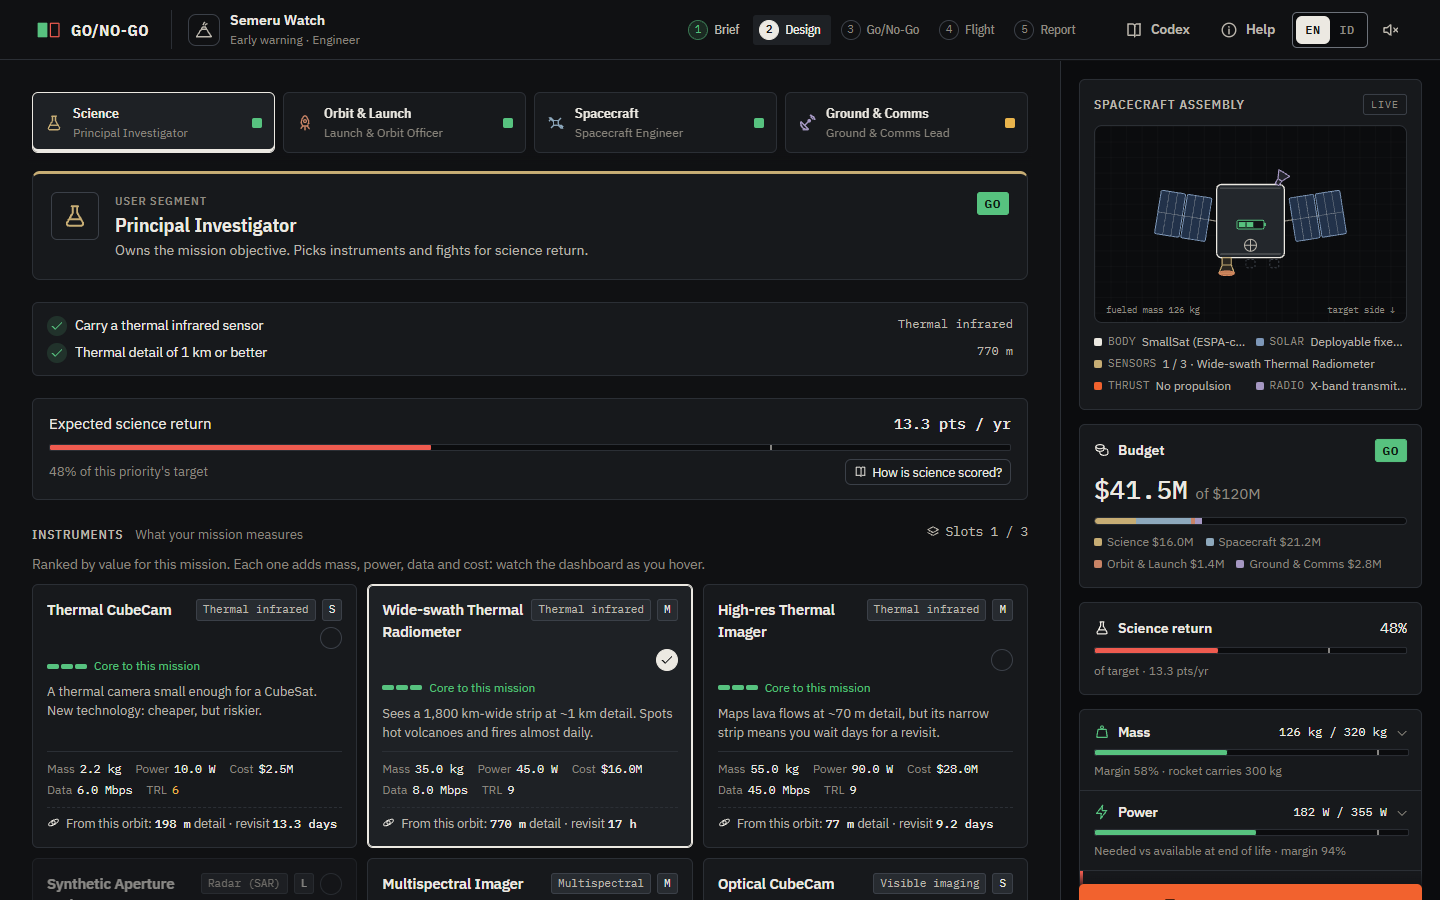
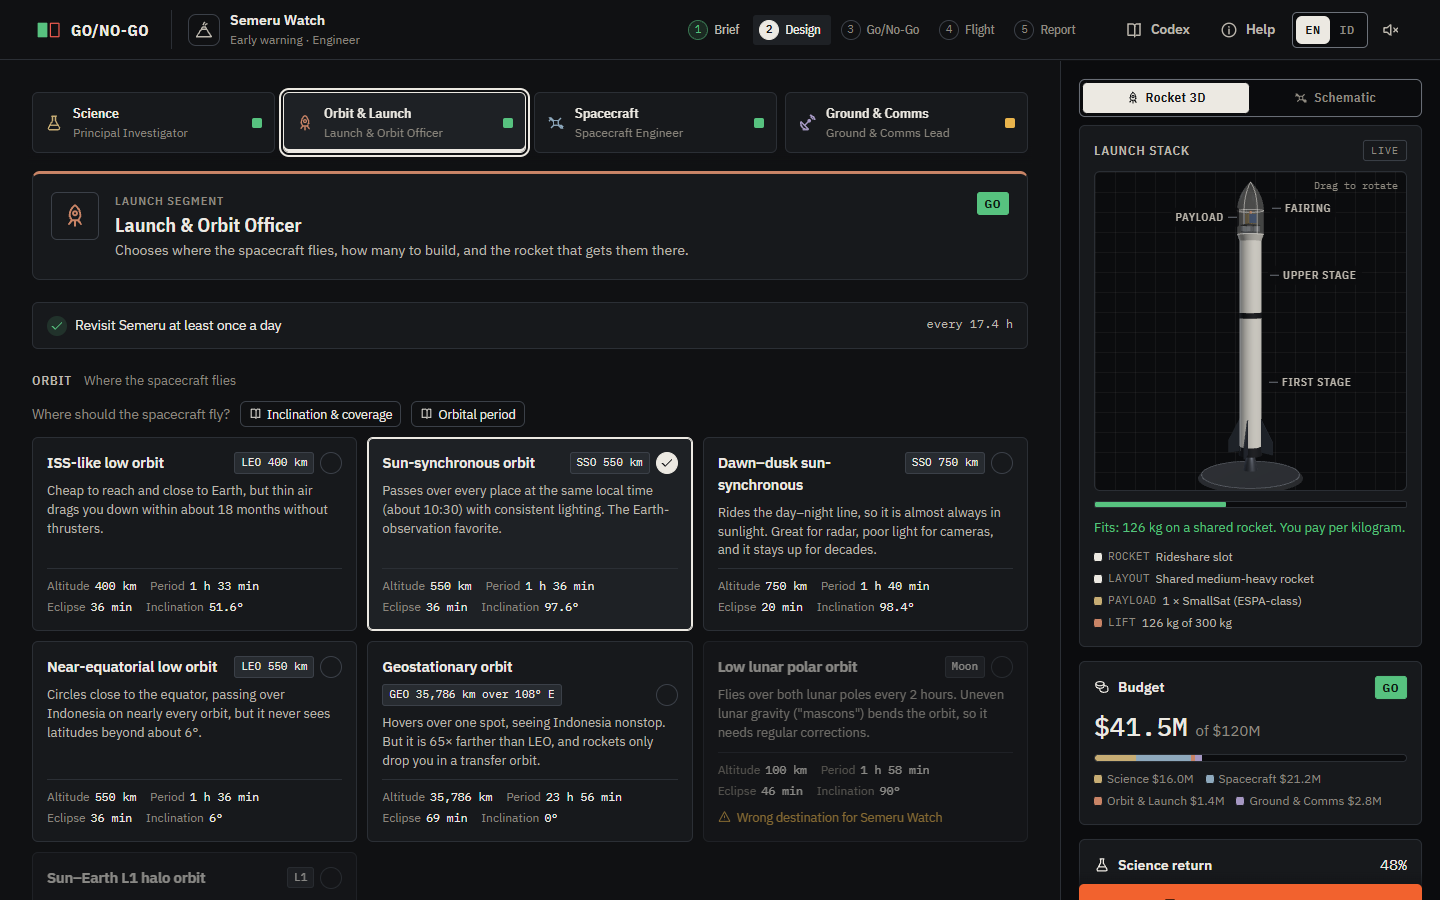
Update the readme and design screenshot

diff --git a/README.md b/README.md
@@ -17,7 +17,8 @@ and fly the mission. At the end the game tells you what went right, what went wr
 2. **Design.** Four roles build the mission: Science picks instruments, Orbit & Launch picks the
    orbit and rocket, Spacecraft builds the bus, and Ground & Comms gets the data home. Every
    choice changes mass, power, budget, data, comms, lifetime and delta-v, and the dashboard shows
-   it right away.
+   it right away. A 3D view shows the rocket you picked with your spacecraft inside its nose cone,
+   so you can see at a glance whether the rocket can lift it.
 3. **Go/No-Go.** Each role reports GO, CAUTION or NO-GO. In team mode every player votes.
 4. **Flight.** Launch, reach orbit, and decide what to do when a solar storm, space debris or a
    broken reaction wheel shows up.
@@ -52,7 +53,10 @@ spacecraft. There is no single right answer.
 - Three difficulty levels. Cadet marks good options as "Suggested" for beginners.
 - A guided tour on the first visit, and a Codex that explains 29 concepts in plain language.
 - English and Bahasa Indonesia. English is the default.
-- A 3D flight view built with Three.js. If WebGL or the CDN is not available, a 2D view is used.
+- A 3D rocket in the design room: it changes with the launcher, the spacecraft parts and the
+  fleet size, and turns red when the payload is too heavy. A flat schematic is one click away.
+- A 3D flight view built with Three.js. If WebGL or the CDN is not available, the game falls back
+  to 2D views.
 - Sound effects made in code, including Apollo-style "Quindar" tones. There is a mute button.
 - A link to share any design, and a local leaderboard.
 
